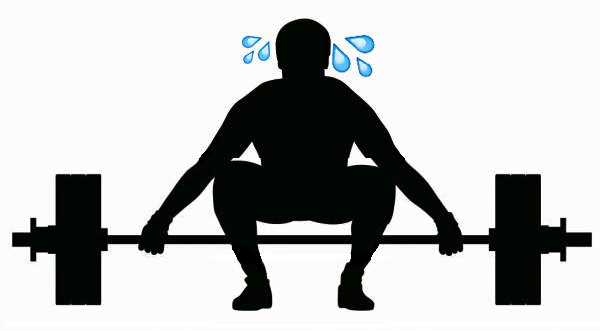
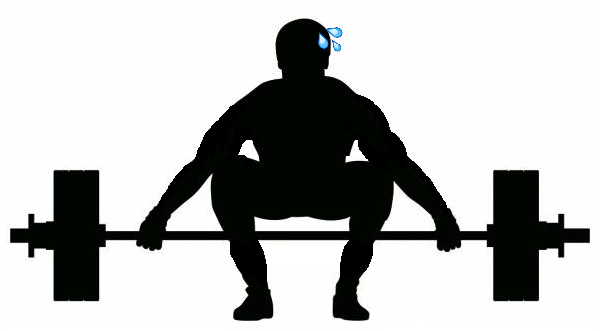
toggled between two images to get the effect of building strength

diff --git a/src/js/main.js b/src/js/main.js
@@ -11,7 +11,7 @@ import { Game } from './classes/game.js';
 // variables for DOM
 let you = $('.you');
 let liftbutton = $('.liftButton');
-
+let img = $('img');
 
 
 let player1 = new You();
@@ -22,6 +22,11 @@ liftbutton.on('click', function (event){
   event.preventDefault();
   player1.buildStrength();
   console.log(player1);
+  if (img.attr('src') === './images/setup.jpg') {
+    img.attr('src', './images/setup2.jpg');
+  } else {
+    img.attr('src', './images/setup.jpg');
+  }
 });
 
 // Goals of Game

diff --git a/src/js/classes/game.js b/src/js/classes/game.js
@@ -5,8 +5,8 @@ export class Game {
   }
 
   checkIfHeEven(you) {
-
     
+
   }
 
 }
